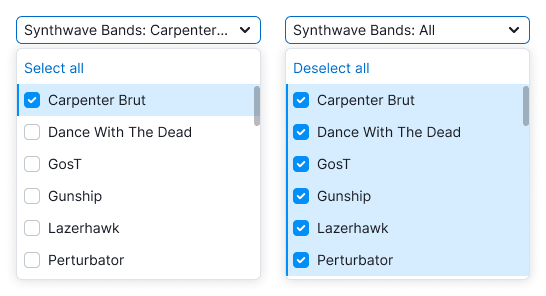
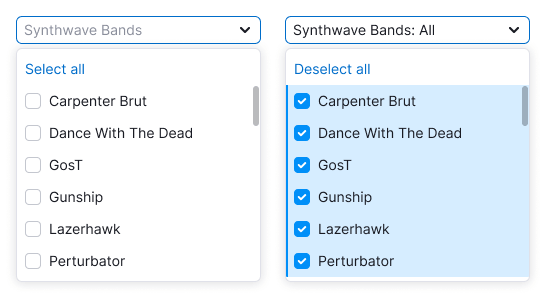
[UIK-3345] Fixed an error in Select all behavior description (#1992)
<!--- Provide a general summary of your changes in the Title above -->

## Motivation and Context

A designer noticed that the text contradicts the picture. I looked at
our old docs, and they say that "Select all" turns into "Deselect all"
when everything is selected (and our SERP filter example behaves this
way), so I edited the text.

## Types of changes

<!--- What types of changes does your code introduce? Put an `x` in all
the boxes that apply: -->

- [ ] Bug fix (non-breaking change which fixes an issue).
- [ ] New feature (non-breaking change which adds functionality).
- [ ] Breaking change (fix or feature that would cause existing
functionality to not work as expected).
- [x] Nice improve.

## Checklist:

<!--- Go over all the following points, and put an `x` in all the boxes
that apply. -->
<!--- If you're unsure about any of these, don't hesitate to ask. We're
here to help! -->

- [ ] My code follows the code style of this project.
- [x] I have updated the documentation accordingly or it's not required.
- [ ] Unit tests are not broken.
- [ ] I have added changelog note to corresponding `CHANGELOG.md` file
with planned publish date.
- [ ] I have added new unit tests on added of fixed functionality.

---------

diff --git a/website/docs/components/select/select.md b/website/docs/components/select/select.md
@@ -157,7 +157,10 @@ If the list includes more than 10 values, add a search input. Otherwise, it will
 
 ### Select all
 
-If the list has more than three values, add the **Select all** option at the very beginning of the list. When at least one value is selected, change this option to **Deselect all**.
+If the list contains more than three values, display the **Select all** action at the very beginning of the list. There are two ways in which **Select all** can switch to **Deselect all**, depending on likely user behavior:
+
+* if users are likely to select only a few items, or reset the selection often, switch when at least one item is selected
+* if users are likely to select most or all items, switch only when all items are selected
 
 ![](static/multiselect-all.png)
 
